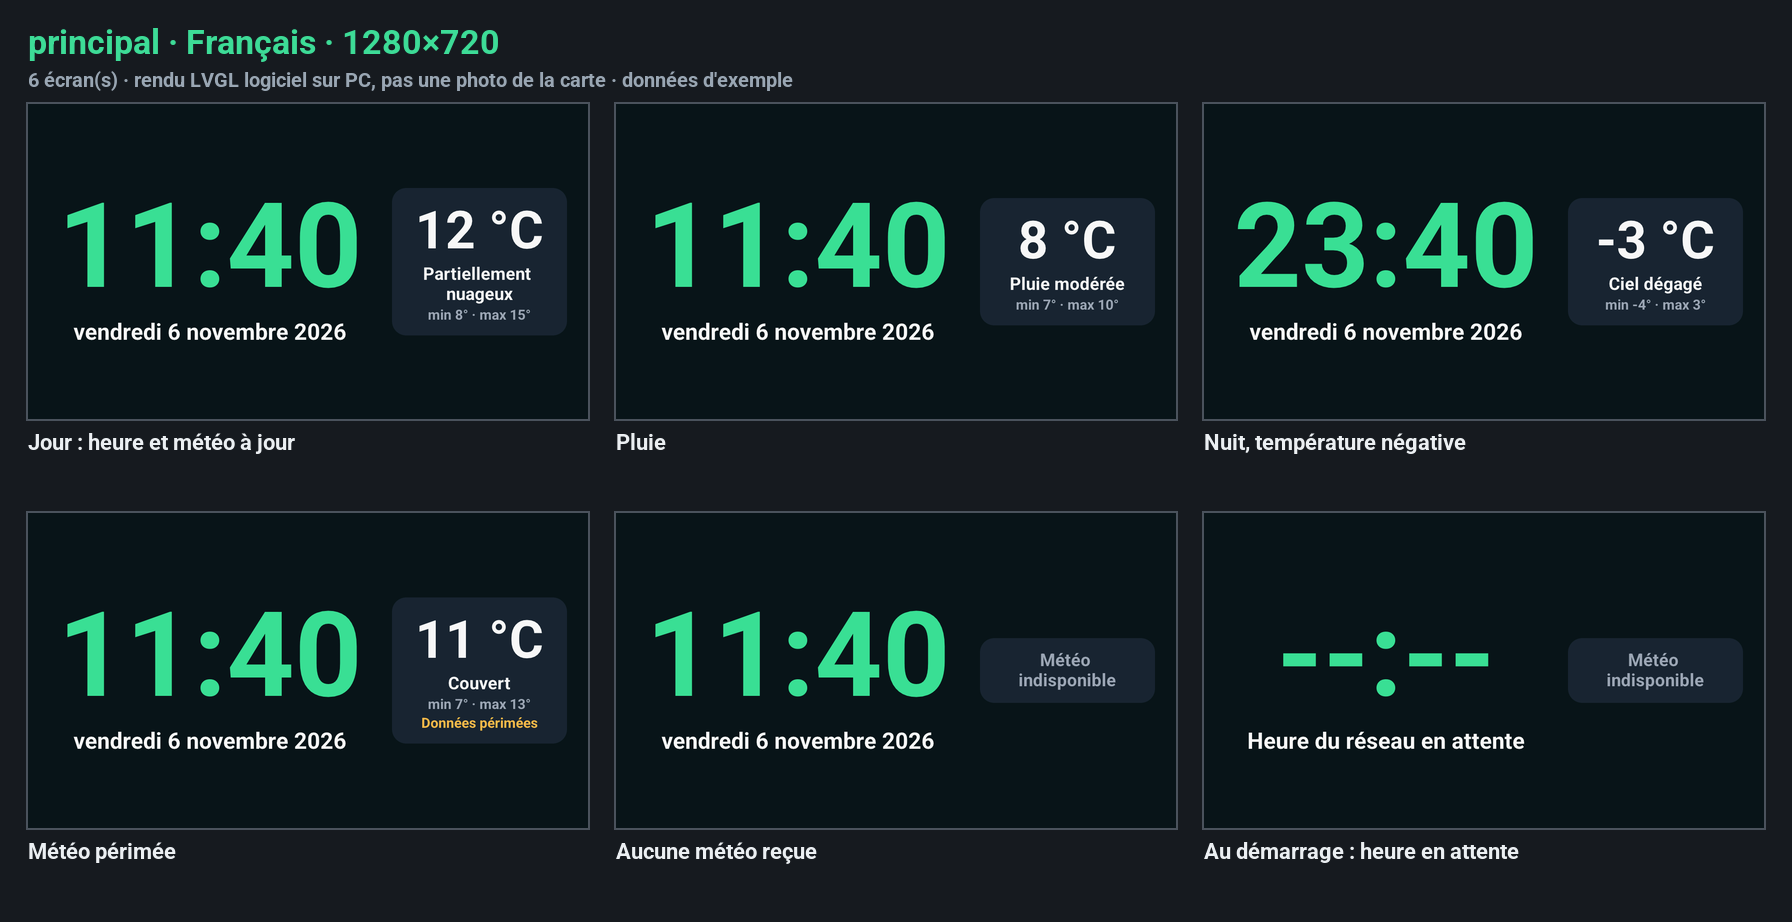
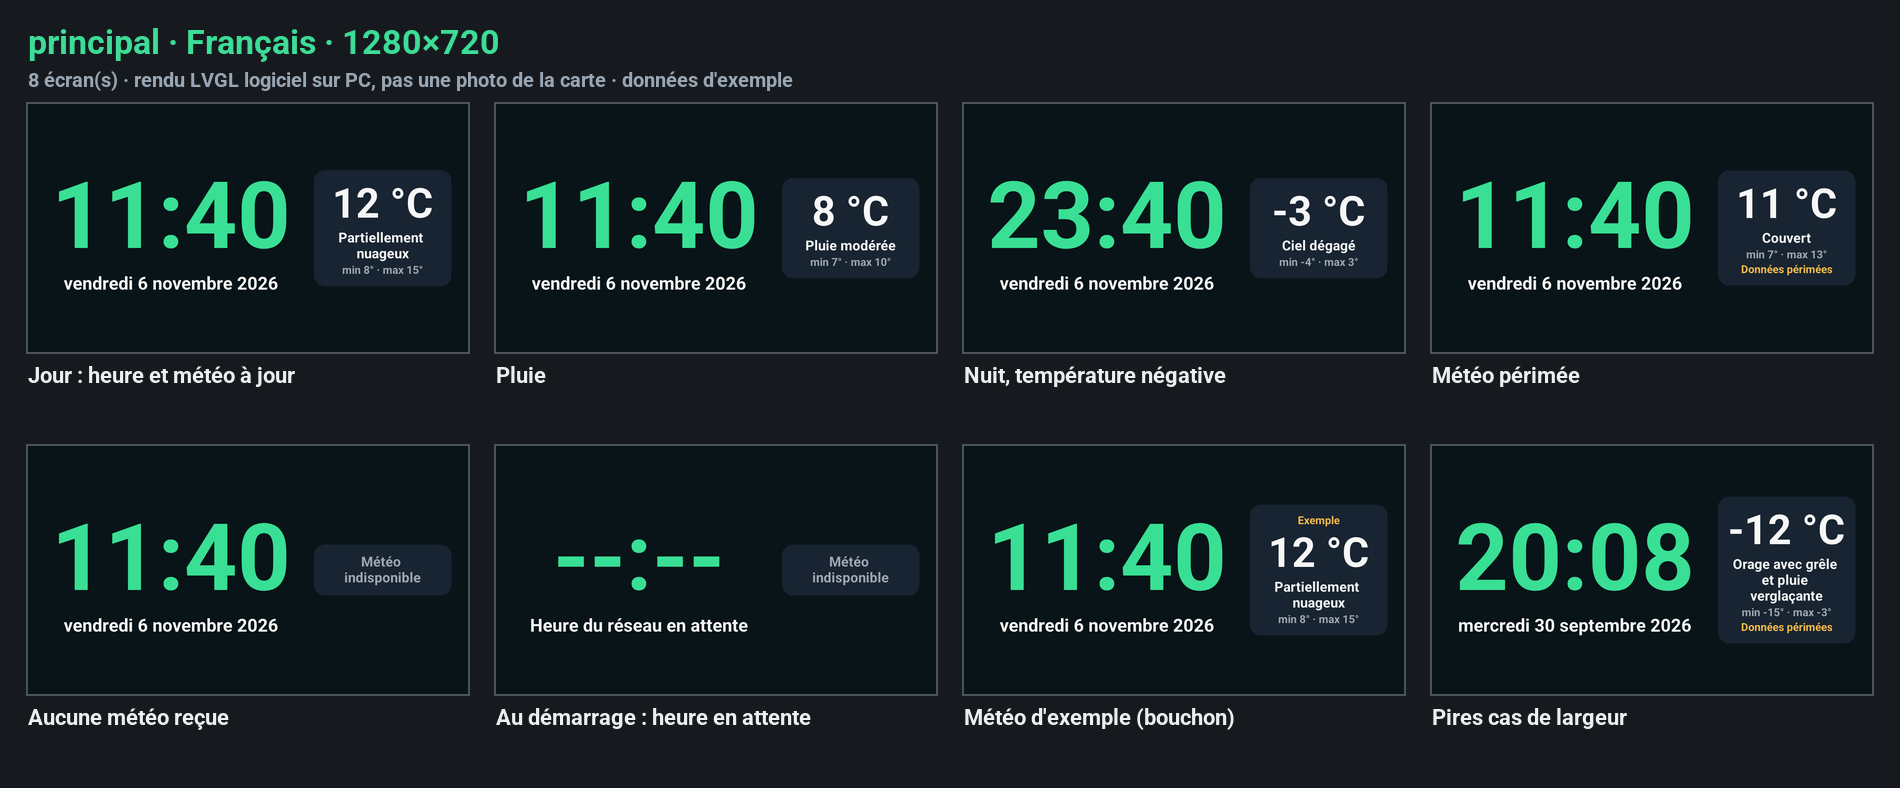
docs(outils): ecran principal rendu depuis 7d54992 (huit variantes, 1280x720 et 1024x600)
docs/outils.md (EN puis FR) : huit variantes, deux tailles par defaut, et le
constat sur 1024x600 mis a jour : l'heure coupee au commit 8282fcc ne l'est
plus apres le correctif d'echelle 44149ff, vu sur le rendu de 7d54992
(claude/ecran-principal-f0f722). La simulation de la taille de la 7B ne
prouve rien sur la carte, non essayee.

Captures : les six PNG 1280x720 existants sont inchangés (echelle 1) ; sont
ajoutes les variantes exemple et pires-cas, les rendus 1024x600 de chaque
variante et deux planches de huit ecrans (1280x720, 1024x600). Rendu
logiciel sur PC, pas une photo de la carte. Cette branche ne contient pas
ui_principal : ces PNG viennent d'une copie des fichiers de 7d54992.

Carte: aucune
Teste-sur: PC (clang 23.1.5 llvm-mingw, LVGL 9.5.0) le 2026-11-06, non teste sur carte

diff --git a/docs/outils.md b/docs/outils.md
@@ -90,7 +90,7 @@ Output, in `docs/captures/ecran/`: `<scene>-<variant>[-<language>]-<width>x<heig
 | `// rendu-tailles: 1280x720` | default sizes (default `720x1280 1280x720`); `-Taille` overrides with any size |
 | `// rendu-sequence: installation 3` | sequence and rank, for sheets (default: the scene name, rank 0). Order in a sheet: rank, scene file name, then order in `kScenes[]` |
 
-**The main screen.** `scene_principal.cpp` (sequence `principal`, 1280x720 by default: the screen is drawn for landscape) compiles `main/ui_principal.cpp` unchanged, in six variants: day, rain, night with a negative temperature, stale weather, no weather received, time not yet received from the network. The weather labels come from the real pure core (`meteo_wmo.hpp`, then `tr()`) and the time and date from the real Europe/Paris zone; the temperatures are invented. The « Exemple » mention, shown when the weather comes from the stand-in of the weather contract, is not rendered. While `main/ui_principal.cpp` is not in the tree (it is on the branch `claude/ecran-principal-f0f722` until that branch is merged) the scene is skipped with a notice; likewise `main/bouchons/meteo_etat.h` (the stand-in of the weather contract) is added to the include path only while the real `main/meteo_etat.h` does not exist. Asked in another size, the screen shows its limits: at 1024x600 the hour is cut at the right edge ([`principal-jour-1024x600.png`](captures/ecran/principal-jour-1024x600.png)); from the constants of `ui_principal.cpp` the block left for the clock is 480 px wide there (736 px in 1280x720). PC render, not tried on the 7B.
+**The main screen.** `scene_principal.cpp` (sequence `principal`, 1280x720 and 1024x600 by default) compiles `main/ui_principal.cpp` unchanged, in eight variants: day, rain, night with a negative temperature, stale weather, no weather received, time not yet received from the network, the « Exemple » mention (shown when the weather comes from the stand-in of the weather contract) and the worst cases of width (wide digits, longest date, 39-byte label, negative temperatures). The weather labels come from the real pure core (`meteo_wmo.hpp`, then `tr()`) and the time and date from the real Europe/Paris zone; the temperatures are invented. The screen is drawn for 1280x720 and scaled to the other sizes. At commit `8282fcc` the hour was cut at the right edge in 1024x600 (the block left for the clock was 480 px wide there, 736 px in 1280x720); the scale fix of `44149ff` removes it, seen on the render of `7d54992` ([`principal-jour-1024x600.png`](captures/ecran/principal-jour-1024x600.png), [`planche-principal-1024x600.png`](captures/ecran/planche-principal-1024x600.png)). The 1024x600 render only simulates the size of the 7B: the board itself has not been tried. While `main/ui_principal.cpp` is not in the tree (it is on the branch `claude/ecran-principal-f0f722` until that branch is merged) the scene is skipped with a notice; likewise `main/bouchons/meteo_etat.h` (the stand-in of the weather contract) is added to the include path only while the real `main/meteo_etat.h` does not exist.
 
 **Language.** `-Langue` sets the current language of the pure core (`ecran::i18n::definir_langue`) before the scene is built: interface code that calls `tr("texte français")` shows the text of the table (`i18n/*.yaml`, ADR-0006) with the same fallbacks as on the board (language, then English, then the French key). The scene also receives it in `banc::Contexte`, with the size and the display. `bonjour` is French only (it does not use `tr()` yet).
 
@@ -124,7 +124,7 @@ LVGL sources are found in `managed_components/lvgl__lvgl` of the repository (aft
 
 **What the witness scene `temoin` showed** (`temoin-langues-*.png`, 1280x720 on the PC render): `-Langue de` and `-Langue tr` reach `tr()` (« Helligkeit », « Yeniden başlat », « Parlaklık »), and the test line of special characters (French `àâäçéèêëîïôöùûüÿœæ`, German `äöüß`, Dutch `ëï`, Spanish `áéíóúñ¿¡`, Italian `àèéìòù`, Turkish `çğıöşü ÇĞİÖŞÜ`) is drawn with no missing glyph by Roboto Bold through TinyTTF (seen by eye on the PC render; on the board: not tried).
 
-Measured on 06/11/2026 (`-Nettoyer` then every scene, 7 PNG): 11.1 s from scratch (463 LVGL files compiled with 4 jobs); 1.7 s on the next run. Seen on: the PC (Windows, clang 23.1.5 llvm-mingw, LVGL 9.5.0), no board, commits `a1b67be`, `2345297` and `e00f791`. Main screen (`principal-*.png`, `planche-principal-1280x720.png`): `ui_principal` at commit `8282fcc` of `claude/ecran-principal-f0f722`, built from a copy of that commit's files with the bench of commit `f50d3a6`, 06/11/2026; this branch does not contain `ui_principal`, so these PNG are not rebuilt here until it is merged.
+Measured on 06/11/2026 (`-Nettoyer` then every scene, 7 PNG): 11.1 s from scratch (463 LVGL files compiled with 4 jobs); 1.7 s on the next run. Seen on: the PC (Windows, clang 23.1.5 llvm-mingw, LVGL 9.5.0), no board, commits `a1b67be`, `2345297` and `e00f791`. Main screen (`principal-*.png`, `planche-principal-*.png`): `ui_principal` at commit `7d54992` of `claude/ecran-principal-f0f722`, built from a copy of that commit's files with the bench of commit `e7bf138`, 06/11/2026; this branch does not contain `ui_principal`, so these PNG are not rebuilt here until it is merged.
 
 ### Not installed (on purpose)
 
@@ -226,7 +226,7 @@ Sortie, dans `docs/captures/ecran/` : `<scène>-<variante>[-<langue>]-<largeur>x
 | `// rendu-tailles: 1280x720` | tailles par défaut (défaut `720x1280 1280x720`) ; `-Taille` impose n'importe quelle taille |
 | `// rendu-sequence: installation 3` | séquence et rang, pour les planches (défaut : le nom de la scène, rang 0). Ordre dans une planche : rang, nom du fichier de scène, puis ordre dans `kScenes[]` |
 
-**L'écran principal.** `scene_principal.cpp` (séquence `principal`, 1280x720 par défaut : l'écran est dessiné pour le paysage) compile `main/ui_principal.cpp` sans modification, en six variantes : jour, pluie, nuit à température négative, météo périmée, aucune météo reçue, heure du réseau pas encore reçue. Les libellés météo viennent du vrai noyau pur (`meteo_wmo.hpp`, puis `tr()`), l'heure et la date du vrai fuseau Europe/Paris ; les températures sont inventées. La mention « Exemple », affichée quand la météo vient du bouchon du contrat météo, n'est pas rendue. Tant que `main/ui_principal.cpp` n'est pas dans l'arbre (il est sur la branche `claude/ecran-principal-f0f722` jusqu'à sa fusion), la scène est ignorée avec un avis ; de même `main/bouchons/meteo_etat.h` (le bouchon du contrat météo) n'est ajouté aux chemins d'inclusion que tant que le vrai `main/meteo_etat.h` n'existe pas. Demandé dans une autre taille, l'écran montre ses limites : en 1024x600 l'heure est coupée au bord droit ([`principal-jour-1024x600.png`](captures/ecran/principal-jour-1024x600.png)) ; d'après les constantes de `ui_principal.cpp`, le bloc laissé à l'horloge y fait 480 px de large (736 px en 1280x720). Rendu PC, non essayé sur la 7B.
+**L'écran principal.** `scene_principal.cpp` (séquence `principal`, 1280x720 et 1024x600 par défaut) compile `main/ui_principal.cpp` sans modification, en huit variantes : jour, pluie, nuit à température négative, météo périmée, aucune météo reçue, heure du réseau pas encore reçue, la mention « Exemple » (affichée quand la météo vient du bouchon du contrat météo) et les pires cas de largeur (chiffres larges, date la plus longue, libellé de 39 octets, températures négatives). Les libellés météo viennent du vrai noyau pur (`meteo_wmo.hpp`, puis `tr()`), l'heure et la date du vrai fuseau Europe/Paris ; les températures sont inventées. L'écran est dessiné pour 1280x720 et mis à l'échelle sur les autres tailles. Au commit `8282fcc` l'heure était coupée au bord droit en 1024x600 (le bloc laissé à l'horloge y faisait 480 px de large, 736 px en 1280x720) ; le correctif d'échelle de `44149ff` l'enlève, vu sur le rendu de `7d54992` ([`principal-jour-1024x600.png`](captures/ecran/principal-jour-1024x600.png), [`planche-principal-1024x600.png`](captures/ecran/planche-principal-1024x600.png)). Le rendu 1024x600 ne fait que simuler la taille de la 7B : la carte elle-même n'a pas été essayée. Tant que `main/ui_principal.cpp` n'est pas dans l'arbre (il est sur la branche `claude/ecran-principal-f0f722` jusqu'à sa fusion), la scène est ignorée avec un avis ; de même `main/bouchons/meteo_etat.h` (le bouchon du contrat météo) n'est ajouté aux chemins d'inclusion que tant que le vrai `main/meteo_etat.h` n'existe pas.
 
 **Langue.** `-Langue` pose la langue courante du noyau pur (`ecran::i18n::definir_langue`) avant la construction de la scène : le code d'interface qui appelle `tr("texte français")` affiche le texte de la table (`i18n/*.yaml`, ADR-0006), avec les mêmes replis que sur la carte (la langue, puis l'anglais, puis la clé française). La scène la reçoit aussi dans `banc::Contexte`, avec la taille et l'affichage. `bonjour` n'existe qu'en français (il n'utilise pas encore `tr()`).
 
@@ -260,7 +260,7 @@ Les sources de LVGL sont cherchées dans `managed_components/lvgl__lvgl` du dép
 
 **Ce qu'a montré la scène témoin `temoin`** (`temoin-langues-*.png`, 1280x720, rendu PC) : `-Langue de` et `-Langue tr` arrivent bien dans `tr()` (« Helligkeit », « Yeniden başlat », « Parlaklık »), et la ligne de caractères spéciaux (français `àâäçéèêëîïôöùûüÿœæ`, allemand `äöüß`, néerlandais `ëï`, espagnol `áéíóúñ¿¡`, italien `àèéìòù`, turc `çğıöşü ÇĞİÖŞÜ`) est dessinée sans glyphe manquant par Roboto Bold via TinyTTF (vu à l'œil sur le rendu PC ; sur la carte : non essayé).
 
-Mesuré le 06/11/2026 (`-Nettoyer` puis toutes les scènes, 7 PNG) : 11,1 s depuis zéro (463 fichiers de LVGL compilés à 4 en parallèle) ; 1,7 s au lancement suivant. Vu sur : le PC (Windows, clang 23.1.5 llvm-mingw, LVGL 9.5.0), aucune carte, commits `a1b67be`, `2345297` et `e00f791`. Écran principal (`principal-*.png`, `planche-principal-1280x720.png`) : `ui_principal` au commit `8282fcc` de `claude/ecran-principal-f0f722`, construit depuis une copie des fichiers de ce commit avec le banc du commit `f50d3a6`, le 06/11/2026 ; cette branche ne contient pas `ui_principal` : ces PNG n'y sont pas reconstruits tant qu'il n'est pas fusionné.
+Mesuré le 06/11/2026 (`-Nettoyer` puis toutes les scènes, 7 PNG) : 11,1 s depuis zéro (463 fichiers de LVGL compilés à 4 en parallèle) ; 1,7 s au lancement suivant. Vu sur : le PC (Windows, clang 23.1.5 llvm-mingw, LVGL 9.5.0), aucune carte, commits `a1b67be`, `2345297` et `e00f791`. Écran principal (`principal-*.png`, `planche-principal-*.png`) : `ui_principal` au commit `7d54992` de `claude/ecran-principal-f0f722`, construit depuis une copie des fichiers de ce commit avec le banc du commit `e7bf138`, le 06/11/2026 ; cette branche ne contient pas `ui_principal` : ces PNG n'y sont pas reconstruits tant qu'il n'est pas fusionné.
 
 ### Ce qui n'est pas installé (volontairement)
 
